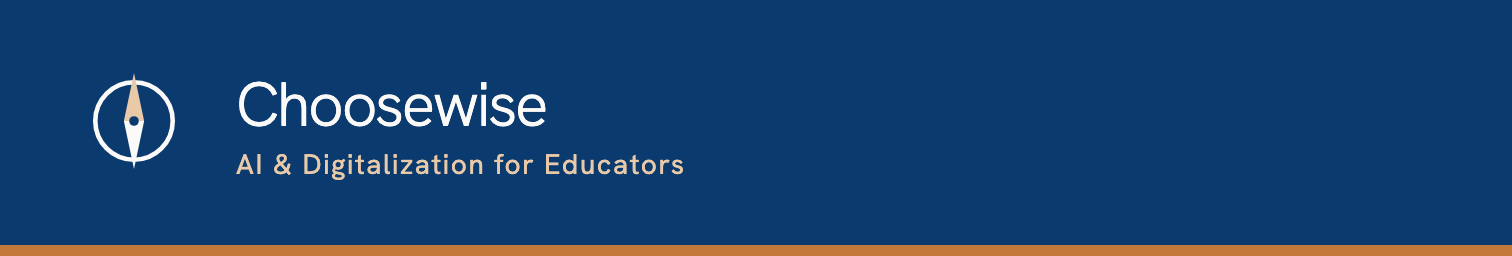
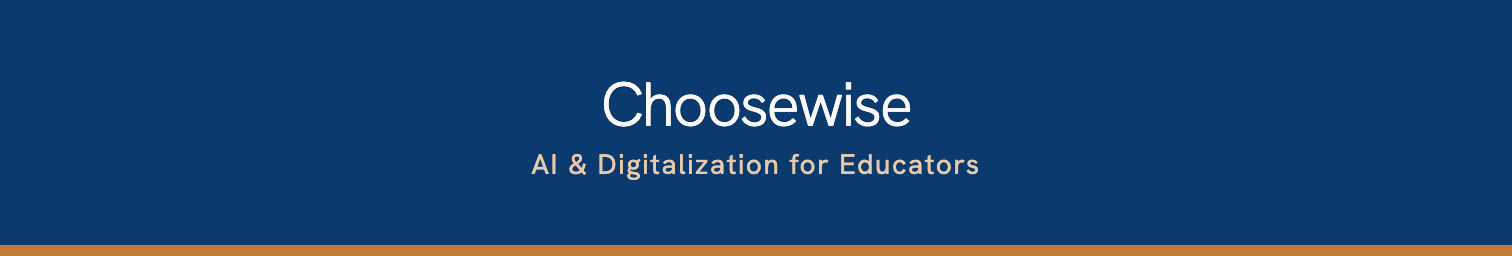
assets(brand): LinkedIn-omslaget utan märke, texten centrerad
Johans beslut 2026-10-09, alternativ B. Företagssidans logga lägger sig
över omslagets nedre vänstra hörn och mobilen beskär mot mitten, så
vänstra ~20 % är osäker yta. Där låg märket och början av ordmärket.

Avataren ÄR märket, så ett märke på omslaget stod dessutom dubbelt.
Omslaget bär nu ordmärket ensamt, centrerat — vilket överlever både
loggan och beskärningen.

card_svg får två tillägg som den nya anroparen behöver: mark_size=0
utelämnar märket, och anchor="middle" centrerar texten. Centreringen
görs med text-anchor och inte med ett handräknat x, så den håller om
ordmärket eller underrubriken ändras.

Två vakter: omslaget får inte bära nålens banor, och båda textraderna
ska vara centrerade i mitten.

Ett misstag fångat innan leverans, värt att minnas: str.replace utan
count tog bort "linkedin/page-banner.svg" ur TRE parametriseringar,
inte en. Typsnittsvakten och underrubriksvakten tappade därmed
bannern tyst — den bär fortfarande både typsnittet och underrubriken.
Upptäckt genom att jämföra insamlade test-id:n mot main, inte genom
att sviten blev röd. Den blev grön.

Svit 751 → 752.

Changed region(s): [[0.1554, 0.3125, 0.6217, 0.5], [0.1554, 0.5938, 0.6528, 0.7188], [0.0622, 0.3125, 0.1243, 0.6562]]

diff --git a/scripts/build-brand-assets.py b/scripts/build-brand-assets.py
@@ -189,7 +189,8 @@ def build_favicons(page) -> None:
 def card_svg(w: int, h: int, mark_size: int, mark_x: int, mark_y: int,
              title: str | None, subtitle: str | None,
              title_pt: int, sub_pt: int, text_x: int,
-             title_y: int, sub_y: int, band: int) -> str:
+             title_y: int, sub_y: int, band: int,
+             anchor: str = "start") -> str:
     """Mörkt kort med märket, rubrik, underrubrik och kopparbandet nederst.
 
     Bandet är samma band som sajtens footer. Det är det som binder
@@ -203,17 +204,23 @@ def card_svg(w: int, h: int, mark_size: int, mark_x: int, mark_y: int,
         'format("woff2");font-weight:300 600}</style>',
         f'<rect width="{w}" height="{h}" fill="{BLUE}"/>',
         f'<rect y="{h - band}" width="{w}" height="{band}" fill="#C2793A"/>',
-        f'<svg x="{mark_x}" y="{mark_y}" width="{mark_size}" height="{mark_size}" '
-        f'viewBox="0 0 64 64">{mark_markup("dark")}</svg>',
     ]
+    # mark_size=0 utelämnar märket helt. LinkedIn-omslaget använder det:
+    # avataren ÄR märket och lägger sig ovanpå omslagets nedre vänstra
+    # hörn, så ett märke där stod både dubbelt och i skymundan.
+    if mark_size:
+        parts.append(
+            f'<svg x="{mark_x}" y="{mark_y}" width="{mark_size}" height="{mark_size}" '
+            f'viewBox="0 0 64 64">{mark_markup("dark")}</svg>')
+    tail = f' text-anchor="{anchor}"' if anchor != "start" else ""
     if title:
         parts.append(
-            f'<text x="{text_x}" y="{title_y}" font-family="Hanken Grotesk, sans-serif" '
+            f'<text x="{text_x}" y="{title_y}"{tail} font-family="Hanken Grotesk, sans-serif" '
             f'font-size="{title_pt}" font-weight="300" fill="{CREAM}" '
             f'letter-spacing="-2">{title}</text>')
     if subtitle:
         parts.append(
-            f'<text x="{text_x}" y="{sub_y}" font-family="Hanken Grotesk, sans-serif" '
+            f'<text x="{text_x}" y="{sub_y}"{tail} font-family="Hanken Grotesk, sans-serif" '
             f'font-size="{sub_pt}" font-weight="400" fill="{COPPER_DK}" '
             f'letter-spacing="1.6">{subtitle}</text>')
     parts.append("</svg>")
@@ -245,13 +252,16 @@ def build_linkedin(page) -> None:
     out = BRAND / "linkedin"
     render_png(page, tile_svg(400, radius_pct=0), 400, 400, out / "page-logo.png")
 
-    # 1512/256 är exakt samma proportion som det gamla 1128/191, så
-    # geometrin är skalad med 1,3404 och inte omritad.
+    # Inget märke, och texten centrerad. Johans beslut 2026-10-09:
+    # företagssidans logga lägger sig över omslagets nedre vänstra hörn
+    # och mobilen beskär mot mitten, så vänstra ~20 % är osäker yta.
+    # Avataren visar redan märket precis där, så omslaget bär ordmärket
+    # ensamt — centrerat, vilket överlever både loggan och beskärningen.
     page_banner = card_svg(
-        w=1512, h=256, mark_size=118, mark_x=75, mark_y=62,
+        w=1512, h=256, mark_size=0, mark_x=0, mark_y=0,
         title=TITLE, subtitle=SUBTITLE,
-        title_pt=62, sub_pt=28, text_x=236,
-        title_y=126, sub_y=174, band=11,
+        title_pt=62, sub_pt=28, text_x=756,
+        title_y=126, sub_y=174, band=11, anchor="middle",
     )
     page_banner_svg_path = out / "page-banner.svg"
     page_banner_svg_path.write_text(page_banner, encoding="utf-8")

diff --git a/scripts/tests/test_brand_mark.py b/scripts/tests/test_brand_mark.py
@@ -265,8 +265,7 @@ def test_asset_exists_with_exact_size(rel, size):
     assert Image.open(path).size == size
 
 
-@pytest.mark.parametrize("rel", ["skool/cover.svg", "linkedin/page-banner.svg",
-                                 "linkedin/personal-banner.svg"])
+@pytest.mark.parametrize("rel", ["skool/cover.svg", "linkedin/personal-banner.svg"])
 def test_generated_card_carries_the_marks_own_paths(rel):
     text = (ROOT / "assets/images/brand" / rel).read_text(encoding="utf-8")
     for d in (NEEDLE_NORTH, NEEDLE_SOUTH):
@@ -370,3 +369,31 @@ def test_the_generator_owns_the_subtitle():
     source = (ROOT / "scripts/build-brand-assets.py").read_text(encoding="utf-8")
     assert SUBTITLE in source
     assert OLD_SUBTITLE not in source
+
+
+LINKEDIN_BANNER = "linkedin/page-banner.svg"
+BANNER_W = 1512
+
+
+def test_the_linkedin_page_banner_carries_no_mark():
+    """Johans beslut 2026-10-09, alternativ B.
+
+    Företagssidans logga lägger sig över omslagets nedre vänstra hörn —
+    specen påstod motsatsen och hade fel. Märket på omslaget hamnade
+    alltså dels i skymundan, dels dubbelt, eftersom avataren är samma
+    märke. Omslaget bär nu ordmärket ensamt.
+    """
+    text = (ROOT / "assets/images/brand" / LINKEDIN_BANNER).read_text(encoding="utf-8")
+    for d in (NEEDLE_NORTH, NEEDLE_SOUTH):
+        assert f'd="{d}"' not in text, "märket är tillbaka på LinkedIn-omslaget"
+
+
+def test_the_linkedin_page_banner_text_is_centred():
+    """Mobilen beskär omslaget mot mitten, så lockupen måste ligga där.
+
+    Centreringen görs med text-anchor och inte med ett handräknat x —
+    annars hamnar den fel så fort ordmärket eller underrubriken ändras.
+    """
+    text = (ROOT / "assets/images/brand" / LINKEDIN_BANNER).read_text(encoding="utf-8")
+    assert text.count('text-anchor="middle"') == 2, "båda raderna ska vara centrerade"
+    assert f'x="{BANNER_W // 2}"' in text, "texten ska sitta i omslagets mitt"
